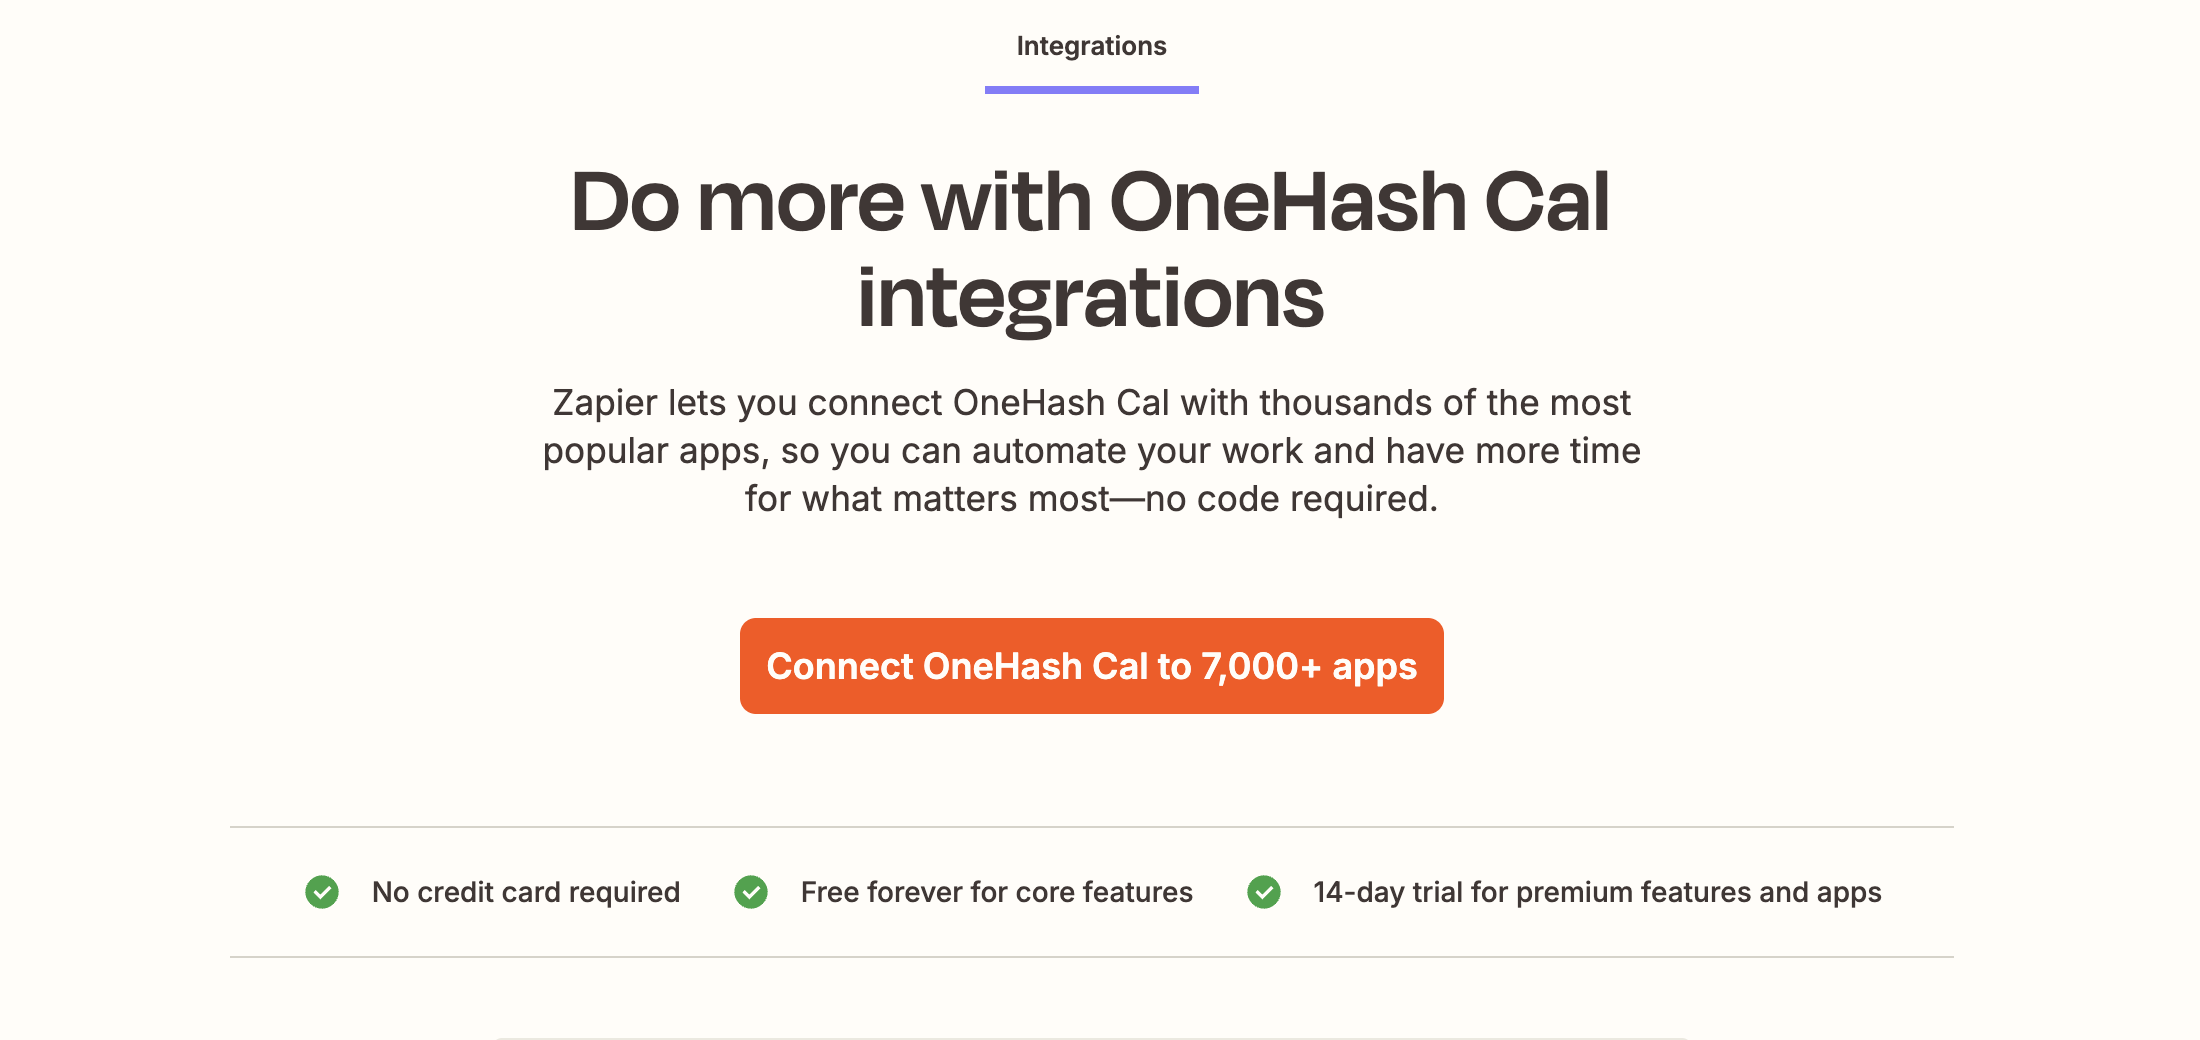
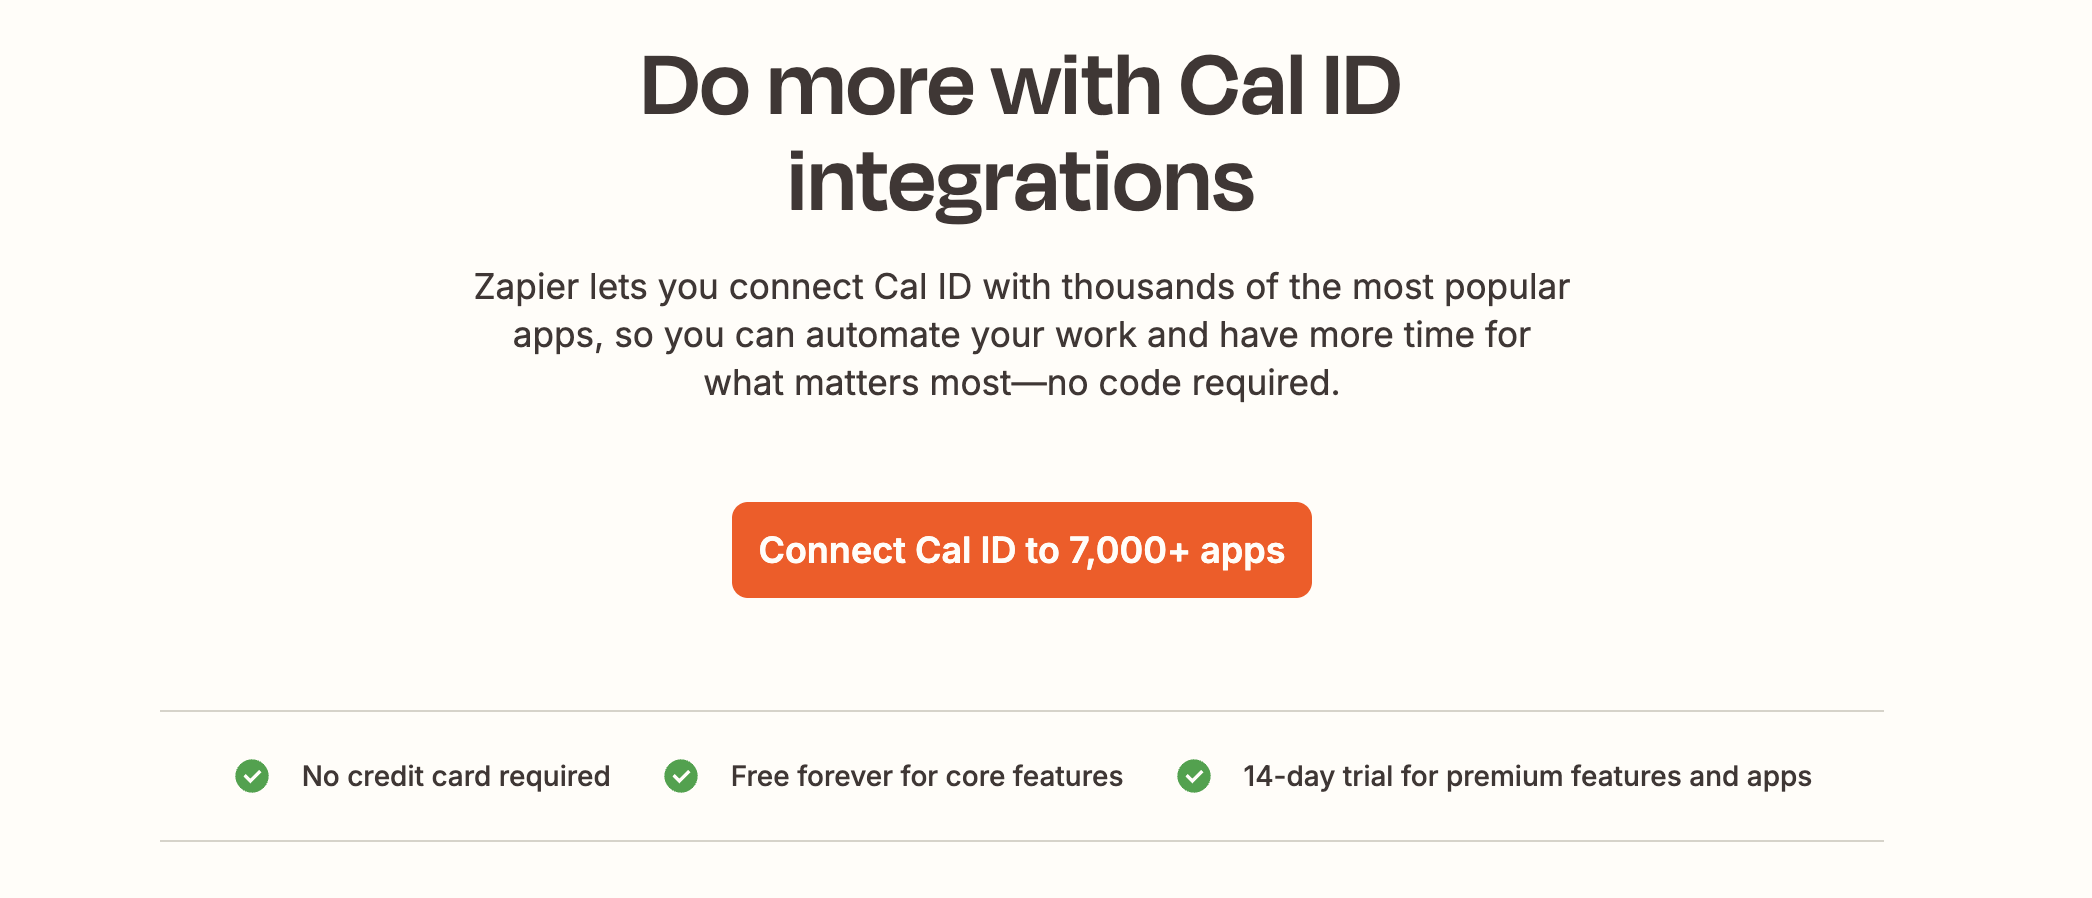
chore: update ref to cal.com in make/zapier

diff --git a/packages/app-store/make/DESCRIPTION.md b/packages/app-store/make/DESCRIPTION.md
@@ -6,4 +6,4 @@ items:
   - 4.png
 ---
 
-Workflow automation for everyone. Use the Cal.com app in Make to automate your workflows when a booking is created, rescheduled, cancelled or when a meeting has ended. You can also get all your booking with the 'List Bookings' module.<br /><br />**After Installation:** Have you lost your API key? You can always generate a new key on the <a href="/apps/make/setup">**<ins>Make Setup Page</ins>**</a>
+Workflow automation for everyone. Use the "Cal ID" app in Make to automate your workflows when a booking is created, rescheduled, cancelled or when a meeting has ended. You can also get all your booking with the 'List Bookings' module.<br /><br />**After Installation:** Have you lost your API key? You can always generate a new key on the <a href="/apps/make/setup">**<ins>Make Setup Page</ins>**</a>

diff --git a/packages/app-store/zapier/DESCRIPTION.md b/packages/app-store/zapier/DESCRIPTION.md
@@ -6,4 +6,4 @@ items:
   - 4.png
 ---
 
-Workflow automation for everyone. Use the OneHash Zapier app to automate your workflows when a booking is created, rescheduled, cancelled or when a meeting ended.<br /><br />**After Installation:** Have you lost your API key? You can always generate a new key on the <a href="/apps/zapier/setup">**<ins>Zapier Setup Page</ins>**</a>
+Workflow automation for everyone. Use the "Cal ID" Zapier app to automate your workflows when a booking is created, rescheduled, cancelled or when a meeting ended.<br /><br />**After Installation:** Have you lost your API key? You can always generate a new key on the <a href="/apps/zapier/setup">**<ins>Zapier Setup Page</ins>**</a>
